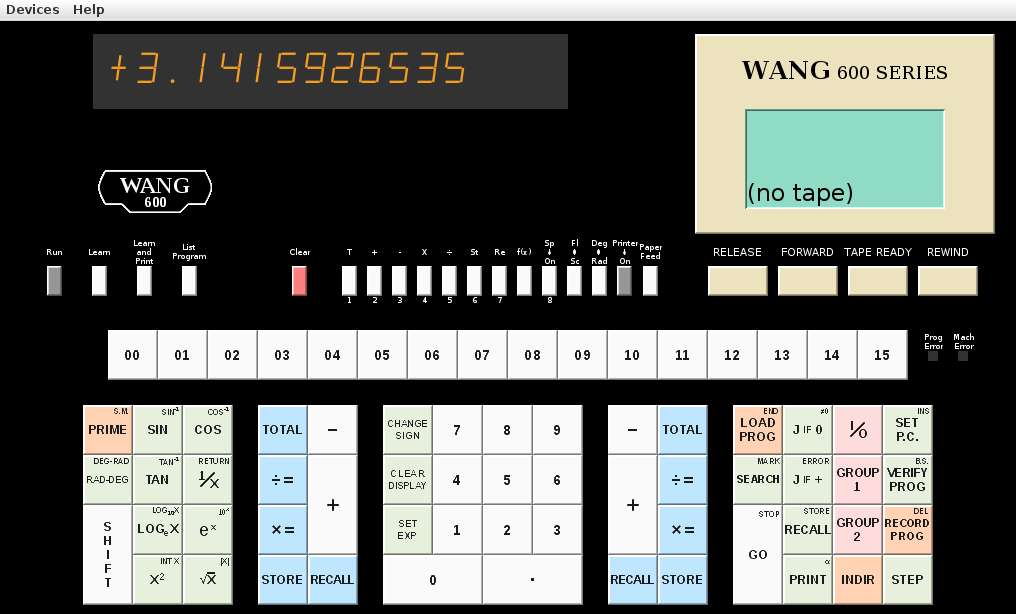
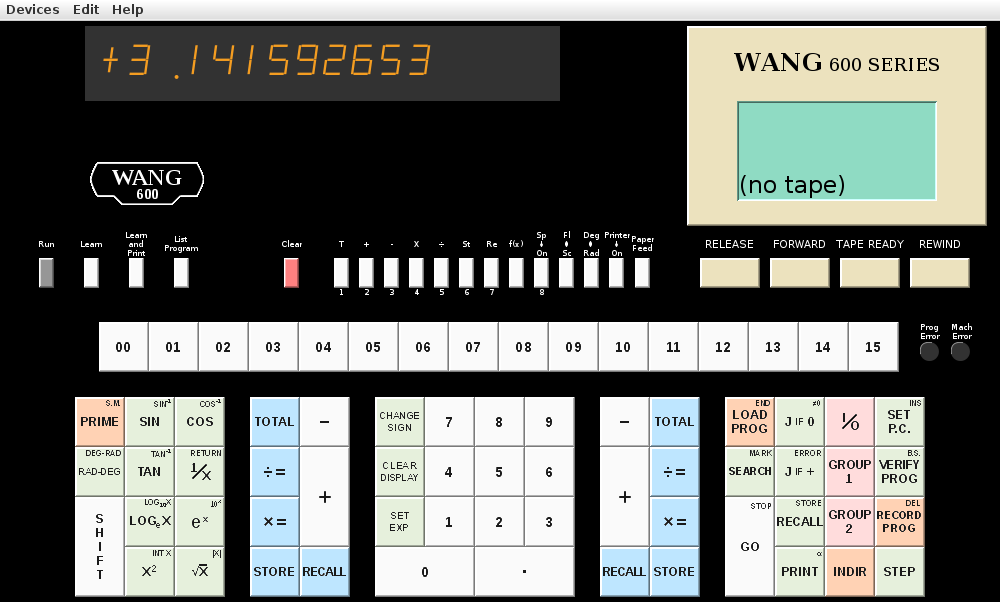
tweak error lamps

diff --git a/w600-sim/w600_fe.java b/w600-sim/w600_fe.java
@@ -1,5 +1,5 @@
 // Copyright (c) 2011,2012 Douglas Miller
-// $Id: w600_fe.java,v 1.133 2013/01/23 17:36:23 drmiller Exp $
+// $Id: w600_fe.java,v 1.134 2013/01/23 17:47:36 drmiller Exp $
 
 import java.awt.*;
 import java.awt.event.*;
@@ -24,7 +24,7 @@ import javax.swing.JRadioButton;
 import javax.swing.JCheckBox;
 
 class _Key {
-	final String ident = "$Id: w600_fe.java,v 1.133 2013/01/23 17:36:23 drmiller Exp $";
+	final String ident = "$Id: w600_fe.java,v 1.134 2013/01/23 17:47:36 drmiller Exp $";
 
 	static final Color orange1 = new Color(255, 210, 180, 255);
 	static final Color blue1 = new Color(190, 230, 255, 255);
@@ -155,7 +155,7 @@ class FEexit extends Thread {
 
 public class w600_fe
 {
-	final String ident = "$Id: w600_fe.java,v 1.133 2013/01/23 17:36:23 drmiller Exp $";
+	final String ident = "$Id: w600_fe.java,v 1.134 2013/01/23 17:47:36 drmiller Exp $";
 
 	public static ImageIcon _icon;
 	public static File _dir;
@@ -650,7 +650,7 @@ class Wang600_Properties extends Properties
 }
 
 class Wang600_ErrLight extends JPanel {
-	final String ident = "$Id: w600_fe.java,v 1.133 2013/01/23 17:36:23 drmiller Exp $";
+	final String ident = "$Id: w600_fe.java,v 1.134 2013/01/23 17:47:36 drmiller Exp $";
 	static final long serialVersionUID = 311457692038L;
 
 	GridBagLayout gridbag = new GridBagLayout();
@@ -679,7 +679,7 @@ class Wang600_ErrLight extends JPanel {
 				g2d.fillOval(0, 0, d.width - 1, d.height - 1);
 			}
 			g2d.setColor(_Key.white2);
-			g2d.drawArc(0, 0, d.width - 1, d.height - 1, 80, 110);
+			g2d.drawArc(1, 1, d.width - 2, d.height - 2, 80, 110);
 		}
 
 		public Wang600_Lamp() {
@@ -774,7 +774,7 @@ class Wang600_SimError
 class Wang600_SimInput
 		implements Runnable, WindowListener, ActionListener
 {
-	final String ident = "$Id: w600_fe.java,v 1.133 2013/01/23 17:36:23 drmiller Exp $";
+	final String ident = "$Id: w600_fe.java,v 1.134 2013/01/23 17:47:36 drmiller Exp $";
 	Wang600_Display _dsp;
 	Wang600_Keyboard _kbd;
 	Wang600_Printer _prt;
@@ -939,7 +939,7 @@ if (n != 32) System.err.println("too little? "+n);
 class Wang600_Printer
 	implements ActionListener, ComponentListener
 {
-	final String ident = "$Id: w600_fe.java,v 1.133 2013/01/23 17:36:23 drmiller Exp $";
+	final String ident = "$Id: w600_fe.java,v 1.134 2013/01/23 17:47:36 drmiller Exp $";
 	final int PR_NUM_COL = 20;
 	final int PR_XCOL_WID = 3;
 	final int PR_XCOL_STRT = 15;
@@ -1257,7 +1257,7 @@ class Wang600_Printer
 
 class Wang600_Tape extends JComponent
 {
-	final String ident = "$Id: w600_fe.java,v 1.133 2013/01/23 17:36:23 drmiller Exp $";
+	final String ident = "$Id: w600_fe.java,v 1.134 2013/01/23 17:47:36 drmiller Exp $";
 	static final long serialVersionUID = 311457692039L;
 	java.io.RandomAccessFile _tf;
 	java.io.OutputStream _fout;
@@ -1893,7 +1893,7 @@ class SuffFileChooser extends JFileChooser {
 class Wang600_Model611
 	implements ActionListener, ComponentListener
 {
-	final String ident = "$Id: w600_fe.java,v 1.133 2013/01/23 17:36:23 drmiller Exp $";
+	final String ident = "$Id: w600_fe.java,v 1.134 2013/01/23 17:47:36 drmiller Exp $";
 	private byte[] cn24_xlate;
 	private String[] cn24_spcl;
 
@@ -2480,7 +2480,7 @@ class Wang600_Model611
 class Wang600_Display extends JComponent
 		implements ActionListener
 {
-	final String ident = "$Id: w600_fe.java,v 1.133 2013/01/23 17:36:23 drmiller Exp $";
+	final String ident = "$Id: w600_fe.java,v 1.134 2013/01/23 17:47:36 drmiller Exp $";
 	static final long serialVersionUID = 311457692037L;
 	final byte[] sign_chr = new byte[]{'+','-','+','-','+','-','+','-','+','-','+','-','+','-','+',' '};
 	final byte[] disp_chr = new byte[]{'0','1','2','3','4','5','6','7','8','9','.','B','C','D','E',' '};
@@ -2682,7 +2682,7 @@ class Wang600_Display extends JComponent
 class Wang600_Keyboard extends JComponent
 	implements ActionListener, KeyListener, WindowListener, ComponentListener
 {
-	final String ident = "$Id: w600_fe.java,v 1.133 2013/01/23 17:36:23 drmiller Exp $";
+	final String ident = "$Id: w600_fe.java,v 1.134 2013/01/23 17:47:36 drmiller Exp $";
 	static final long serialVersionUID = 31145769203L;
 	static final int num_kbds = 3;
 
@@ -3134,7 +3134,7 @@ System.err.println("action");
 
 class Wang600_Keyboards extends JComponent
 {
-	final String ident = "$Id: w600_fe.java,v 1.133 2013/01/23 17:36:23 drmiller Exp $";
+	final String ident = "$Id: w600_fe.java,v 1.134 2013/01/23 17:47:36 drmiller Exp $";
 	static final long serialVersionUID = 311457692034L;
 	public Wang600_Keyboards() { }
 
@@ -3401,7 +3401,7 @@ class Wang600_Help extends JComponent
 		JLabel lab = new JLabel("<HTML><CENTER>"+
 			"Wang 600 Advanced Programmable Calculator<BR>"+
 			"Simulator<BR>"+
-			"$Revision: 1.133 $ $Date: 2013/01/23 17:36:23 $<BR>"+
+			"$Revision: 1.134 $ $Date: 2013/01/23 17:47:36 $<BR>"+
 			"<BR>"+
 			"<IMG SRC=\""+url.toString()+"\">"+
 			"<BR>"+
@@ -3535,7 +3535,7 @@ class Wang600_Help extends JComponent
 
 class Wang600_Keyboard_main extends Wang600_Keyboards
 {
-	final String ident = "$Id: w600_fe.java,v 1.133 2013/01/23 17:36:23 drmiller Exp $";
+	final String ident = "$Id: w600_fe.java,v 1.134 2013/01/23 17:47:36 drmiller Exp $";
 	static final long serialVersionUID = 311457692031L;
 	static final int num_keys = 54;
 
@@ -3753,7 +3753,7 @@ class Wang600_Keyboard_main extends Wang600_Keyboards
 
 class Wang600_Keyboard_meta extends Wang600_Keyboards
 {
-	final String ident = "$Id: w600_fe.java,v 1.133 2013/01/23 17:36:23 drmiller Exp $";
+	final String ident = "$Id: w600_fe.java,v 1.134 2013/01/23 17:47:36 drmiller Exp $";
 	static final long serialVersionUID = 311457692032L;
 	static final int num_keys = 16;
 
@@ -3846,7 +3846,7 @@ class Wang600_Keyboard_meta extends Wang600_Keyboards
 
 class Wang600_Keyboard_stick extends Wang600_Keyboards
 {
-	final String ident = "$Id: w600_fe.java,v 1.133 2013/01/23 17:36:23 drmiller Exp $";
+	final String ident = "$Id: w600_fe.java,v 1.134 2013/01/23 17:47:36 drmiller Exp $";
 	static final long serialVersionUID = 311457692033L;
 	static final int num_keys = 22;
 

diff --git a/w700-sim/w700_fe.java b/w700-sim/w700_fe.java
@@ -1,5 +1,5 @@
 // Copyright (c) 2011,2012 Douglas Miller
-// $Id: w700_fe.java,v 1.49 2013/01/23 17:36:16 drmiller Exp $
+// $Id: w700_fe.java,v 1.50 2013/01/23 17:48:19 drmiller Exp $
 import java.awt.*;
 import java.awt.event.*;
 import javax.swing.*;
@@ -19,7 +19,7 @@ import javax.swing.JRadioButton;
 import javax.swing.JCheckBox;
 
 class _Key {
-	final String ident = "$Id: w700_fe.java,v 1.49 2013/01/23 17:36:16 drmiller Exp $";
+	final String ident = "$Id: w700_fe.java,v 1.50 2013/01/23 17:48:19 drmiller Exp $";
 
 	static final Color orange1 = new Color(255, 210, 180, 255);
 	static final Color blue1 = new Color(190, 230, 255, 255);
@@ -137,7 +137,7 @@ class FEexit extends Thread {
 
 public class w700_fe
 {
-	final String ident = "$Id: w700_fe.java,v 1.49 2013/01/23 17:36:16 drmiller Exp $";
+	final String ident = "$Id: w700_fe.java,v 1.50 2013/01/23 17:48:19 drmiller Exp $";
 
 	public static File _dir;
 	public static ImageIcon _icon;
@@ -671,7 +671,7 @@ class Wang700_Properties extends Properties
 }
 
 class Wang700_ErrLight extends JPanel {
-	final String ident = "$Id: w700_fe.java,v 1.49 2013/01/23 17:36:16 drmiller Exp $";
+	final String ident = "$Id: w700_fe.java,v 1.50 2013/01/23 17:48:19 drmiller Exp $";
 	static final long serialVersionUID = 311457692038L;
 
 	GridBagLayout gridbag = new GridBagLayout();
@@ -700,7 +700,7 @@ class Wang700_ErrLight extends JPanel {
 				g2d.fillOval(0, 0, d.width - 1, d.height - 1);
 			}
 			g2d.setColor(_Key.white2);
-			g2d.drawArc(0, 0, d.width - 1, d.height - 1, 80, 110);
+			g2d.drawArc(1, 1, d.width - 2, d.height - 2, 80, 110);
 		}
 
 		public Wang700_Lamp() {
@@ -796,7 +796,7 @@ class Wang700_SimError
 class Wang700_SimInput
 		implements Runnable, WindowListener, ActionListener
 {
-	final String ident = "$Id: w700_fe.java,v 1.49 2013/01/23 17:36:16 drmiller Exp $";
+	final String ident = "$Id: w700_fe.java,v 1.50 2013/01/23 17:48:19 drmiller Exp $";
 	Wang700_Display _dspx;
 	Wang700_Display _dspy;
 	Wang700_Tape _tape;
@@ -947,7 +947,7 @@ if (n != 32) System.err.println("too little? "+n);
 
 class Wang700_Tape extends JComponent
 {
-	final String ident = "$Id: w700_fe.java,v 1.49 2013/01/23 17:36:16 drmiller Exp $";
+	final String ident = "$Id: w700_fe.java,v 1.50 2013/01/23 17:48:19 drmiller Exp $";
 	static final long serialVersionUID = 311457692039L;
 	java.io.RandomAccessFile _tf;
 	java.io.OutputStream _fout;
@@ -1519,7 +1519,7 @@ class SuffFileChooser extends JFileChooser {
 class Wang700_Model711
 	implements ActionListener, ComponentListener
 {
-	final String ident = "$Id: w700_fe.java,v 1.49 2013/01/23 17:36:16 drmiller Exp $";
+	final String ident = "$Id: w700_fe.java,v 1.50 2013/01/23 17:48:19 drmiller Exp $";
 	private byte[] cn24_xlate;
 	private String[] cn24_spcl;
 
@@ -2208,7 +2208,7 @@ class Wang700_Model711
 class Wang700_Display extends JComponent
 		implements ActionListener
 {
-	final String ident = "$Id: w700_fe.java,v 1.49 2013/01/23 17:36:16 drmiller Exp $";
+	final String ident = "$Id: w700_fe.java,v 1.50 2013/01/23 17:48:19 drmiller Exp $";
 	static final long serialVersionUID = 311457692037L;
 	final byte[] sign_chr = new byte[]{'+','-','+','-','+','-','+','-','+','-','+','-','+','-','+',' '};
 	final byte[] disp_chr = new byte[]{'0','1','2','3','4','5','6','7','8','9','A','B','C','D','E',' '};
@@ -2495,7 +2495,7 @@ class Wang700_Help extends JComponent
 		JLabel lab = new JLabel("<HTML><CENTER>"+
 			"Wang 700 Advanced Programming Calculator<BR>"+
 			"Simulator<BR>"+
-			"$Revision: 1.49 $ $Date: 2013/01/23 17:36:16 $<BR>"+
+			"$Revision: 1.50 $ $Date: 2013/01/23 17:48:19 $<BR>"+
 			"<BR>"+
 			"<IMG SRC=\""+url.toString()+"\">"+
 			"<BR>"+
@@ -2614,7 +2614,7 @@ class Wang700_Help extends JComponent
 class Wang700_Keyboard extends JComponent
 	implements ActionListener, KeyListener, WindowListener, ComponentListener
 {
-	final String ident = "$Id: w700_fe.java,v 1.49 2013/01/23 17:36:16 drmiller Exp $";
+	final String ident = "$Id: w700_fe.java,v 1.50 2013/01/23 17:48:19 drmiller Exp $";
 	static final long serialVersionUID = 31145769203L;
 	static final int num_kbds = 3;
 
@@ -3043,7 +3043,7 @@ class Wang700_Keyboard extends JComponent
 
 class Wang700_Keyboards extends JComponent
 {
-	final String ident = "$Id: w700_fe.java,v 1.49 2013/01/23 17:36:16 drmiller Exp $";
+	final String ident = "$Id: w700_fe.java,v 1.50 2013/01/23 17:48:19 drmiller Exp $";
 	static final long serialVersionUID = 311457692034L;
 	public Wang700_Keyboards() { }
 
@@ -3259,7 +3259,7 @@ class Wang700_Keyboards extends JComponent
 
 class Wang700_Keyboard_main extends Wang700_Keyboards
 {
-	final String ident = "$Id: w700_fe.java,v 1.49 2013/01/23 17:36:16 drmiller Exp $";
+	final String ident = "$Id: w700_fe.java,v 1.50 2013/01/23 17:48:19 drmiller Exp $";
 	static final long serialVersionUID = 311457692031L;
 	static final int num_keys = 67;
 
@@ -3484,7 +3484,7 @@ class Wang700_Keyboard_main extends Wang700_Keyboards
 
 class Wang700_Keyboard_meta extends Wang700_Keyboards
 {
-	final String ident = "$Id: w700_fe.java,v 1.49 2013/01/23 17:36:16 drmiller Exp $";
+	final String ident = "$Id: w700_fe.java,v 1.50 2013/01/23 17:48:19 drmiller Exp $";
 	static final long serialVersionUID = 311457692032L;
 	static final int num_keys = 20;
 
@@ -3615,7 +3615,7 @@ class Wang700_Keyboard_meta extends Wang700_Keyboards
 
 class Wang700_Keyboard_stick extends Wang700_Keyboards
 {
-	final String ident = "$Id: w700_fe.java,v 1.49 2013/01/23 17:36:16 drmiller Exp $";
+	final String ident = "$Id: w700_fe.java,v 1.50 2013/01/23 17:48:19 drmiller Exp $";
 	static final long serialVersionUID = 311457692033L;
 	static final int num_keys = 22;
 
